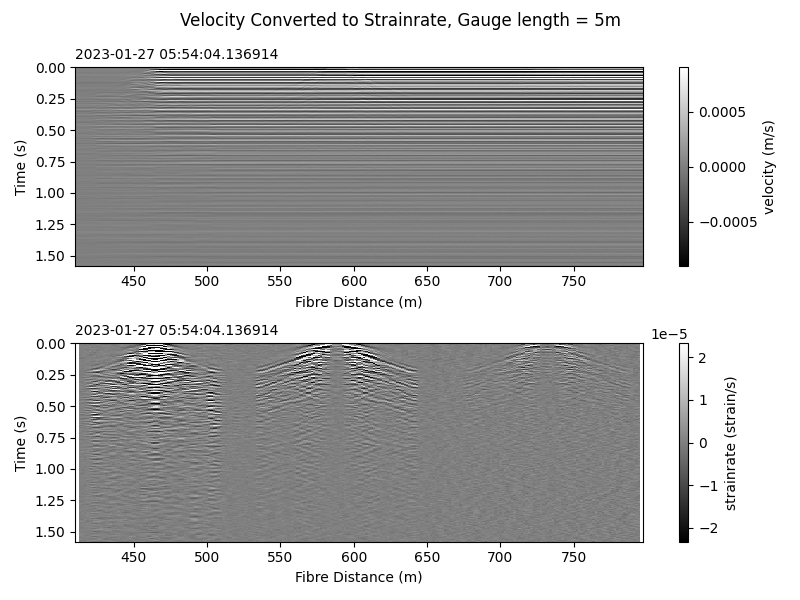
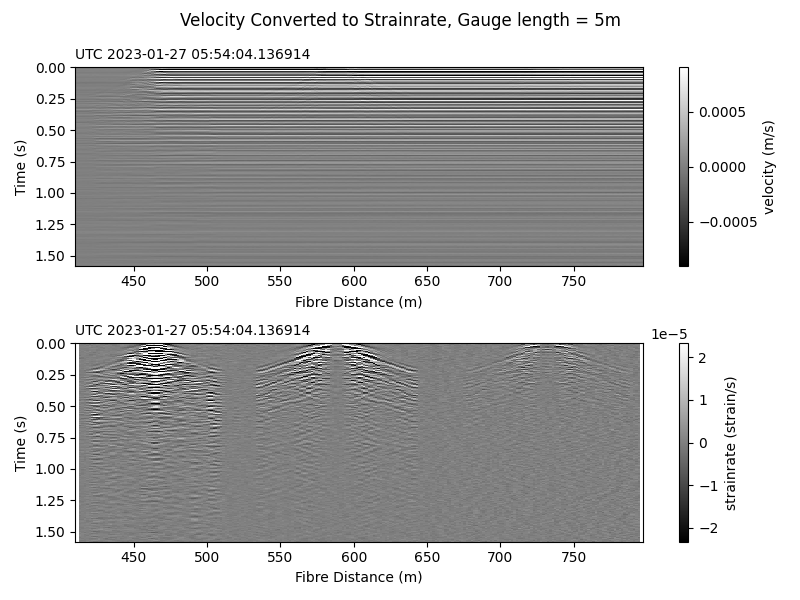
- Add UTC label to plot timestamps.

Changed region(s): [[0.0938, 0.06, 0.375, 0.12], [0.0938, 0.54, 0.4062, 0.57]]

diff --git a/HDF5_samples/plot_hdf5_sdev.py b/HDF5_samples/plot_hdf5_sdev.py
@@ -91,13 +91,9 @@ def load_hdf_slice(filepath, t_start=None, t_duration=None, x_start=None, x_stop
         return data, md, t, x
 
 
-def convert_velocity_to_strainrate(velocity, dx, gauge_length):
-    """Convert velocity data to strainrate by performing gauge calculation."""
-    gauge_samples = int(round( gauge_length / dx ))
-    gauge_length  = gauge_samples * dx
-    strain_rate = velocity[:, gauge_samples:] - velocity[:, :-gauge_samples]
-    strain_rate = strain_rate / gauge_length
-    return strain_rate
+def convert_velocity_to_strainrate(data, gauge_length_m, dx):
+    gauge_samples = int(round(gauge_length_m / dx))
+    return (data[:, gauge_samples:] - data[:, :-gauge_samples]) / (gauge_samples * dx)
 
 
 def correct_gauge_length_offset(x_vector, gauge_length):
@@ -154,7 +150,7 @@ def plot_data(data, t, x, title=None, units=None, axis=None, cmap="gray"):
     if title is not None:
         plt.suptitle(title, fontsize=12)
 
-    plt.title(t_start, loc="left", fontsize=10)
+    plt.title(f"UTC {t_start}", loc="left", fontsize=10)
 
     plt.imshow(
         data,
@@ -193,7 +189,7 @@ velocity_data, metadata, t, x = load_hdf_slice(
 )
 
 # convert velocity data to strainrate, using a custom gauge_length
-strainrate_data = convert_velocity_to_strainrate(velocity_data, metadata['dx'], gauge_length)
+strainrate_data = convert_velocity_to_strainrate(velocity_data, gauge_length, metadata['dx'])
 x_strainrate = correct_gauge_length_offset(x, gauge_length)
 
 # calculate std deviation of strainrate, in <t_sdev>-second-long sections

diff --git a/HDF5_samples/replay_data.py b/HDF5_samples/replay_data.py
@@ -15,16 +15,9 @@ import h5py
 import pyqtgraph as pg
 from pyqtgraph.Qt import QtCore
 
-def convert_velocity_to_strainrate(data, dx, gauge_length, remove_mean=False):
-    """Convert velocity data to strainrate by performing gauge calculation."""
-    if remove_mean is True:
-        # subtracts out mean velocity (DC offset in strainrate)
-        data = data - np.mean(data, axis=0)
-
-    gauge_samples = int(round(gauge_length / dx))
-    gauge_length = gauge_samples * dx
-    data = data[:, gauge_samples:] - data[:, :-gauge_samples]
-    return data / gauge_length
+def convert_velocity_to_strainrate(data, gauge_length_m, dx):
+    gauge_samples = int(round(gauge_length_m / dx))
+    return (data[:, gauge_samples:] - data[:, :-gauge_samples]) / (gauge_samples * dx)
 
 
 def correct_gauge_length_offset(x, gauge_length):
@@ -71,7 +64,7 @@ def update_data():
         x = np.arange(md["nx"]) * md["dx"] + md["sensing_range_start"]
 
         data = convert_velocity_to_strainrate(
-            data, md["dx"], md["gauge_length"], remove_mean=True
+            data, md["gauge_length"], md["dx"]
         )
         x = correct_gauge_length_offset(x, md["gauge_length"])
 

diff --git a/HDF5_samples/crop_data_to_trigger.py b/HDF5_samples/crop_data_to_trigger.py
@@ -115,7 +115,7 @@ def plot_data(data, t, x, title=None, units=None, axis=None, cmap="gray"):
     if title is not None:
         plt.suptitle(title, fontsize=12)
 
-    plt.title(t_start, loc="left", fontsize=10)
+    plt.title(f"UTC {t_start}", loc="left", fontsize=10)
 
     plt.imshow(
         data,

diff --git a/HDF5_samples/plot_hdf5_raw.py b/HDF5_samples/plot_hdf5_raw.py
@@ -103,7 +103,7 @@ def plot_data(data, t, x, title=None, units=None, axis=None, cmap="gray"):
     if title is not None:
         plt.suptitle(title, fontsize=12)
 
-    plt.title(t_start, loc="left", fontsize=10)
+    plt.title(f"UTC {t_start}", loc="left", fontsize=10)
 
     plt.imshow(
         data,

diff --git a/HDF5_samples/plot_hdf5_rms.py b/HDF5_samples/plot_hdf5_rms.py
@@ -103,7 +103,7 @@ def plot_data(data, t, x, title=None, units=None, axis=None, cmap="gray"):
     if title is not None:
         plt.suptitle(title, fontsize=12)
 
-    plt.title(t_start, loc="left", fontsize=10)
+    plt.title(f"UTC {t_start}", loc="left", fontsize=10)
 
     plt.imshow(
         data,

diff --git a/HDF5_samples/split_dataset.py b/HDF5_samples/split_dataset.py
@@ -149,7 +149,7 @@ def plot_data(data, t, x, title=None, units=None, axis=None, cmap="gray"):
     if title is not None:
         plt.suptitle(title, fontsize=12)
 
-    plt.title(t_start, loc="left", fontsize=10)
+    plt.title(f"UTC {t_start}", loc="left", fontsize=10)
 
     plt.imshow(
         data,

diff --git a/HDF5_samples/convert_to_local_velocity.py b/HDF5_samples/convert_to_local_velocity.py
@@ -35,7 +35,7 @@ def plot_data(data, t, x, title=None, units=None, axis=None, cmap="gray"):
     if title is not None:
         plt.suptitle(title, fontsize=12)
 
-    plt.title(t_start, loc="left", fontsize=10)
+    plt.title(f"UTC {t_start}", loc="left", fontsize=10)
 
     plt.imshow(
         data,

diff --git a/HDF5_samples/convert_to_strain.py b/HDF5_samples/convert_to_strain.py
@@ -53,7 +53,7 @@ def plot_data(data, t, x, title=None, units=None, axis=None, cmap="gray"):
     if title is not None:
         plt.suptitle(title, fontsize=12)
 
-    plt.title(t_start, loc="left", fontsize=10)
+    plt.title(f"UTC {t_start}", loc="left", fontsize=10)
 
     plt.imshow(
         data,

diff --git a/HDF5_samples/plot_traces.py b/HDF5_samples/plot_traces.py
@@ -124,7 +124,7 @@ def trace_plot(data, t, x, ax=None):
     if ax:
         plt.sca(ax)
 
-    plt.title(t_start, loc="left", fontsize=10)
+    plt.title(f"UTC {t_start}", loc="left", fontsize=10)
 
     plt.plot(t_rel, norm_data, linewidth=0.5, c="b")
     plt.xlabel("Time (s)")
